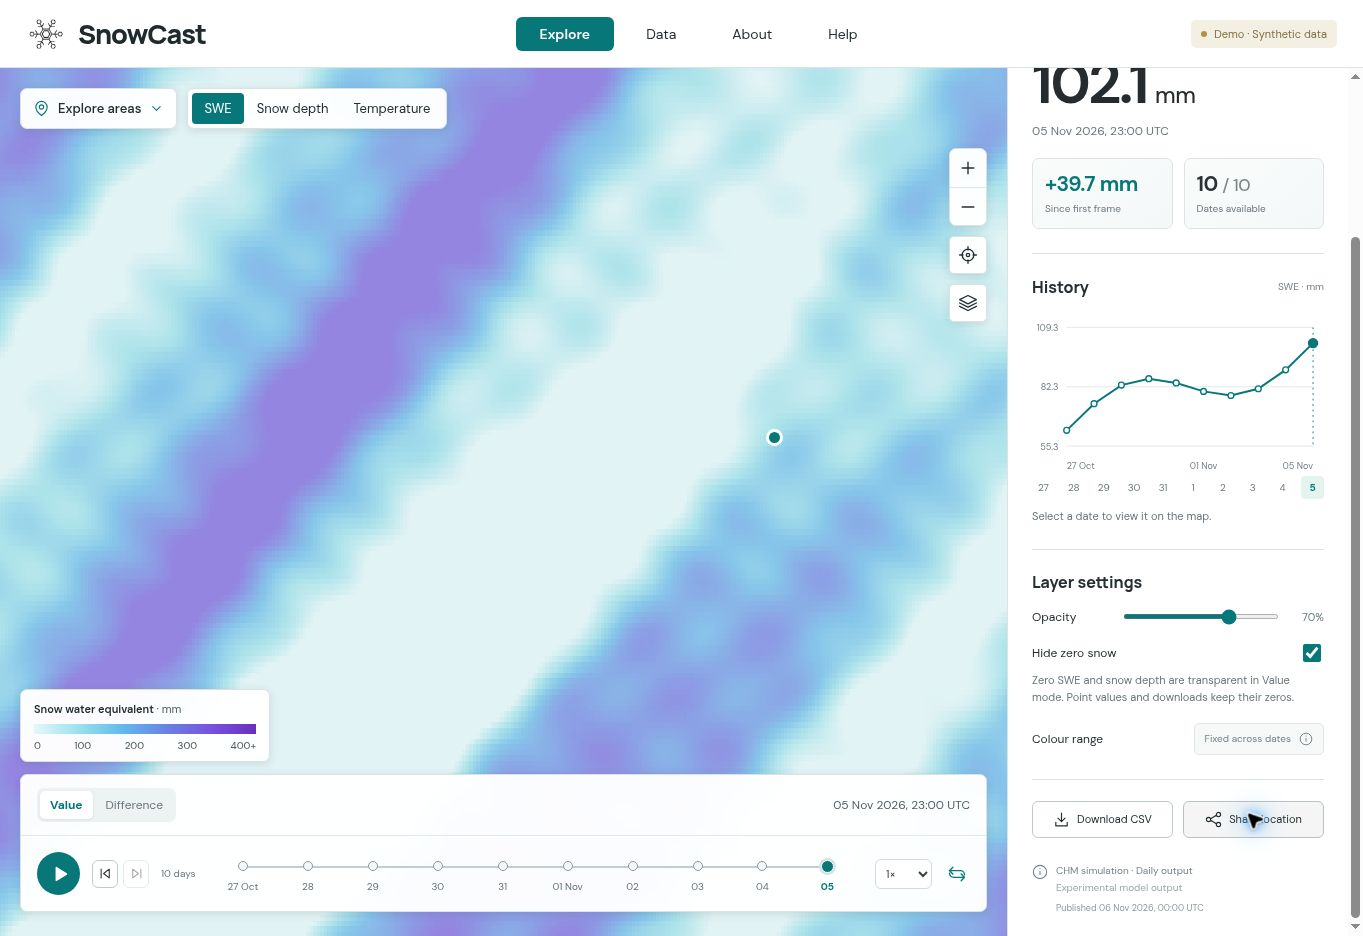
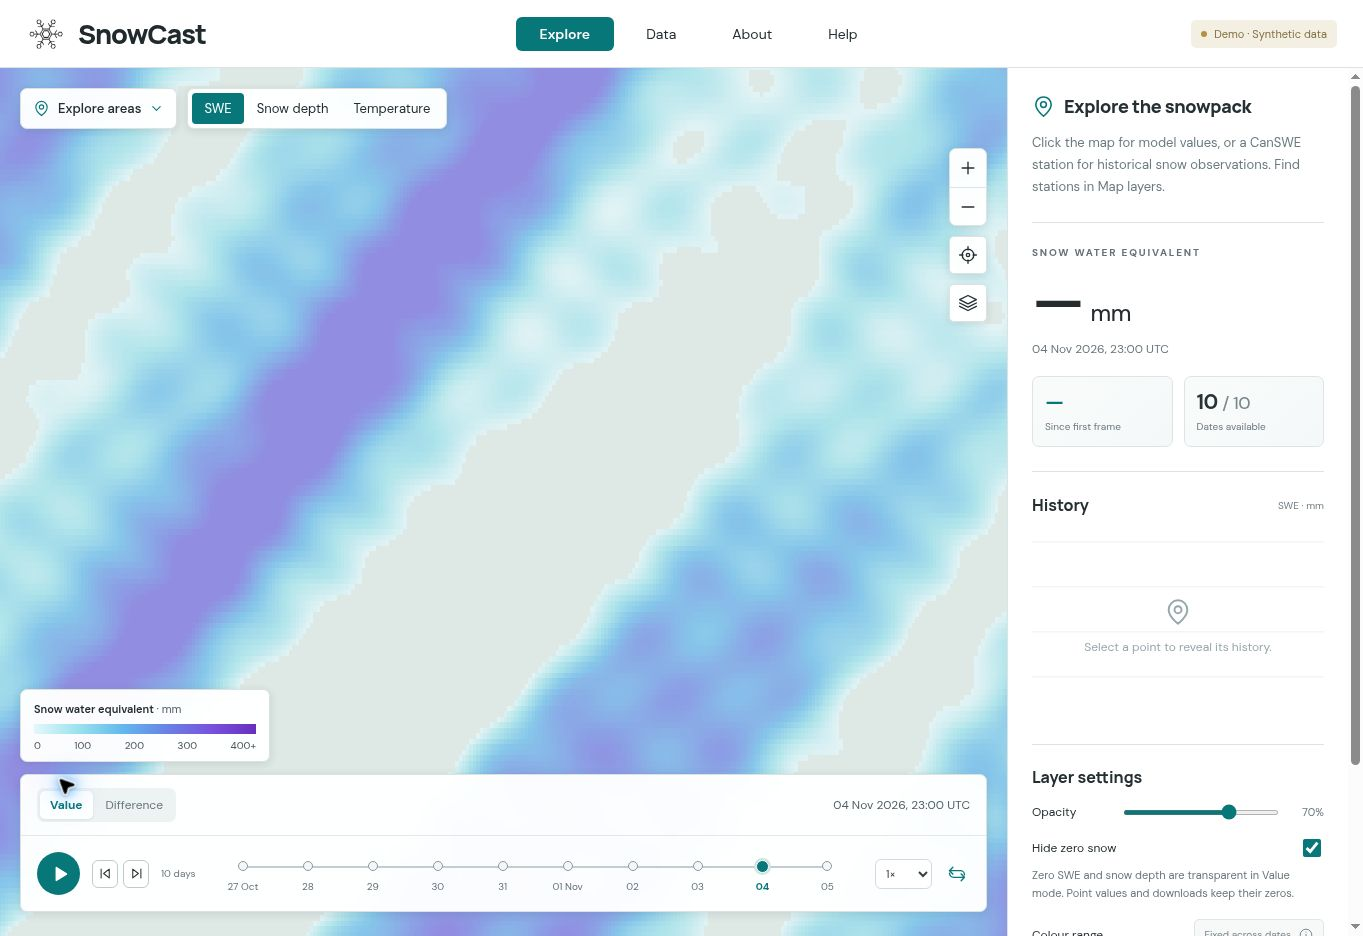
Keep displayed model dates in the address bar

diff --git a/webui/src/components/HelpDialog.svelte b/webui/src/components/HelpDialog.svelte
@@ -25,7 +25,7 @@
       <li><strong>Date differences.</strong> Switch to Difference and choose any two dates in the published map history. The map shows To − From. For SWE and snow depth, blue means an increase and brown a decrease. For air temperature, blue means cooling and red warming. The neutral centre is zero. Swap dates to reverse the comparison. Missing pixels on either date stay transparent. Point details and Difference CSV include both dates and their values; point history charts still show absolute values. CanSWE shows observations only in Difference mode; select Value to restore the model comparison. Older archive TIFFs are not included in this date picker.</li>
       <li><strong>Colours.</strong> Each variable uses a fixed colour range across dates. Missing data is transparent; zero is a valid value. Enable Hide zero snow under Layer settings to make zero SWE and snow depth transparent in Value mode. This optional display setting is remembered and shared in links. Temperature and Difference colours, point values, charts and downloads are unchanged.</li>
       <li><strong>Point values.</strong> Click the map for a full-resolution value and its history. Download CSV to keep those values.</li>
-      <li><strong>Sharing a map.</strong> The address bar saves the map centre and zoom after you pan or zoom. Share map copies a link with the current view, variable, date, basemap and satellite settings. With a point selected, Share location also includes that point or station. Reopening the link restores the view, even when the selected point is elsewhere on the map.</li>
+      <li><strong>Sharing a map.</strong> The address bar saves the map centre and zoom after you pan or zoom, plus the model date and variable once each frame loads. Difference mode saves both dates. Share map copies a link with the current view, variable, date, basemap and satellite settings. With a point selected, Share location also includes that point or station. Reopening the link restores the view, even when the selected point is elsewhere on the map.</li>
       <li><strong>CanSWE stations.</strong> Click a brown marker, or find a station in Map layers, for historical SWE and snow-depth observations. Seasonal context compares the model with past snow seasons; it is not a live observation feed.</li>
     </ul>
     <p class="model-note">These are regridded model estimates, not observations. Map colours use overviews for efficient display; point values use the full-resolution raster.</p>

diff --git a/webui/src/App.svelte b/webui/src/App.svelte
@@ -256,6 +256,12 @@
     if (id !== selected?.id) return;
     displayed = selected; displayedVariable = mapVariable;
     displayId = id; displayedIndex = requestedIndex; frameLoading = false; error = ''; slowFrameId = '';
+    // Keep a copied address tied to the frame actually on screen, including playback.
+    const url = new URL(window.location.href);
+    const hash = new URLSearchParams(url.hash.slice(1));
+    modelSelectionParams(hash);
+    url.hash = hash.toString();
+    if (url.href !== window.location.href) window.history.replaceState(null, '', url);
   }
   function failed(message: string) { error = message; frameLoading = false; stop(); }
   function step(delta: number) {
@@ -338,17 +344,25 @@
     // Panning and zooming should not add entries to browser history.
     if (url.href !== window.location.href) window.history.replaceState(null, '', url);
   }
+  function modelSelectionParams(hash: URLSearchParams) {
+    if (!displayed) return;
+    hash.set('variable', variableId);
+    hash.set('time', displayed.datetime);
+    // Clear comparison/archive settings when returning to a daily Value view.
+    hash.delete('mode'); hash.delete('from'); hash.delete('history');
+    if (showArchive) hash.set('history', 'all');
+    if (displayed.difference) { hash.set('mode', 'difference'); hash.set('from', displayed.difference.from.datetime); }
+  }
   async function share() {
     if (!displayed) return;
     // Include both states so the link overrides the recipient's saved choice.
     changeZeroSnow(hideZeroSnow);
-    const hash = new URLSearchParams({ variable: variableId, time: displayed.datetime });
+    const hash = new URLSearchParams();
+    modelSelectionParams(hash);
     if (point) { hash.set('lon', point[0].toFixed(6)); hash.set('lat', point[1].toFixed(6)); }
     const view = map?.viewState();
     if (view) mapViewParams(hash, view);
     if (selectedStation) hash.set('station', selectedStation.id);
-    if (showArchive) hash.set('history', 'all');
-    if (displayed.difference) { hash.set('mode', 'difference'); hash.set('from', displayed.difference.from.datetime); }
     const url = new URL(window.location.href);
     url.searchParams.set('basemap', basemap);
     url.hash = hash.toString();

diff --git a/webui/README.md b/webui/README.md
@@ -561,7 +561,11 @@ cover site navigation, full-domain reset, date/point preservation, and dismissal
   selecting a point; **Share location** also includes the selected point/station.
   Panning/zooming updates `viewLon`, `viewLat` and `zoom` in the URL fragment with
   `replaceState`, without adding browser-history entries. These coordinates are
-  separate from the point's `lon`/`lat`. For example,
+  separate from the point's `lon`/`lat`. The displayed model timestamp (`time`)
+  and variable also update automatically when a frame finishes loading, including
+  playback. Difference mode records both dates (`time` and `from`) and `mode`;
+  returning to Value mode removes the comparison fields. Copying the address bar
+  therefore preserves the displayed model date as well as the map view. For example,
   `#viewLon=-115.732419&viewLat=51.013275&zoom=11.3752` restores the same centre and
   scale. Different screen sizes show different extents around that centre.
   A valid shared view takes precedence over the initial domain fit and station
